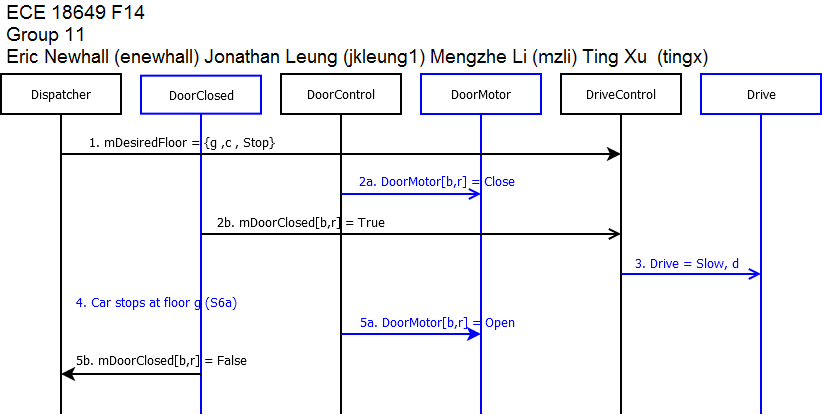
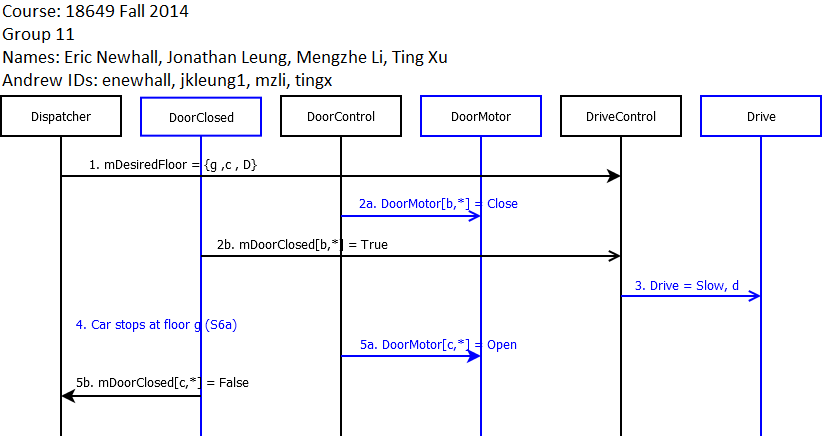
Added S8C and fixed S8A

diff --git a/portfolio/scen_sd/scen_sd.html b/portfolio/scen_sd/scen_sd.html
@@ -55,6 +55,7 @@ Ting Xu  (tingx) <br>
   <ul>
     <li><a href="#scenario8a">Scenario 8A</a> </li>
     <li><a href="#scenario8b">Scenario 8B</a> </li>
+    <li><a href="#scenario8c">Scenario 8C</a> </li>
   </ul>
   <li><a href="#usecase9">9. Cycle Doors</a></li>
 </ul>
@@ -450,10 +451,10 @@ on floor y and stops. </h3>
   <li>All elevator doors are closed. </li>
   <li>Drive is stopped. </li>
 </ul>
-
 <h3> Sequence Diagram: </h3>
 <p> <a href="sd6a.png"><img src="sd6a.png" alt="6A" name="_x0000_i1027"
  style="border: 0px solid ; width: 682px; height: 457px;"></a> </p>
+ <hr size="2" width="100%" align="center"> </div>
 <p> &nbsp; </p>
 
 
@@ -556,8 +557,7 @@ doors close on a hallway. </h3>
 
 
 <h2> <a name="usecase8" id="usecase8"></a>Use Case 8: Move Car to NextFloor </h2>
-<h3> <a name="scenario8a" id="scenario8a">Scenario 8A: Elevator moves from {floor f, hallway b} to {floor g,hallway c} in direction d. </h3>
-<p> Note: You will want to create other scenarios that involve fast speed for your elevator, but this is a starting point. </p>
+<h3> <a name="scenario8a" id="scenario8a">Scenario 8A: Elevator moves from {floor f, hallway b} to {floor g,hallway c} in direction d without reaching Fast speed.</h3>
 <h3> Author name: Jonathan Leung(jkleung1) </h3>
 <h3> Pre-Conditions: </h3>
 <ul type="disc">
@@ -567,19 +567,18 @@ doors close on a hallway. </h3>
 <h3> Scenario: </h3>
 <ol start="1" type="1">
   <li>Dispatcher sets DesiredFloor of car to floor g</li>
-  <li>Door[b,r] closes </li>
+  <li>Door[b,*] closes </li>
   <li>Car moves in direction d </li>
   <li>Car stops at floor y (S6a) </li>
-  <li>Door opens </li>
+  <li>Door[c,*] opens </li>
 </ol>
 <h3> Post-Conditions: </h3>
 <ul type="disc">
   <li>Elevator is at floor <b>g</b> with doors opening. </li>
 </ul>
-
 <h3> Sequence Diagram: </h3>
 <p> <a href="sd8a.png"><img src="sd8a.png" alt="8A" name="_x0000_i1027"
- style="border: 0px solid ; width: 822px; height: 415px;"></a> </p>
+ style="border: 0px solid ; width: 822px; height: 437px;"></a> </p>
 <div align="center">
 <hr size="2" width="100%" align="center"> </div>
 
@@ -602,6 +601,32 @@ doors close on a hallway. </h3>
 <h3> Sequence Diagram: </h3>
 <p> <a href="sd8b.png"><img src="sd8b.png" alt="8A" name="_x0000_i1027"
  style="border: 0px solid ; width: 710px; height: 315px;"></a> </p>
+<div align="center">
+<hr size="2" width="100%" align="center"> </div>
+
+<h3> <a name="scenario8c" id="scenario8c">Scenario 8C: Elevator moves from {floor f, hallway b} to {floor g,hallway c} in direction d reaching Fast speed.</h3>
+<h3> Author name: Jonathan Leung(jkleung1) </h3>
+<h3> Pre-Conditions: </h3>
+<ul type="disc">
+  <li>Elevator is at floor <b>f</b>, with at least one Door[<b>b</b>,<b>r</b>]open. </li>
+  <li>Drive is stopped. </li>
+</ul>
+<h3> Scenario: </h3>
+<ol start="1" type="1">
+  <li>Dispatcher sets DesiredFloor of car to floor g</li>
+  <li>Door[b,*] closes </li>
+  <li>Car moves in direction d </li>
+  <li>Car reaches fast speed </li>
+  <li>Car stops at floor y (S6a) </li>
+  <li>Door[c,*] opens </li>
+</ol>
+<h3> Post-Conditions: </h3>
+<ul type="disc">
+  <li>Elevator is at floor <b>g</b> with doors opening. </li>
+</ul>
+<h3> Sequence Diagram: </h3>
+<p> <a href="sd8c.png"><img src="sd8c.png" alt="8C" name="_x0000_i1027"
+ style="border: 0px solid ; width: 962px; height: 516px;"></a> </p>
 <div align="center">
 <hr size="2" width="100%" align="center"> </div>
 <p> &nbsp; </p>
